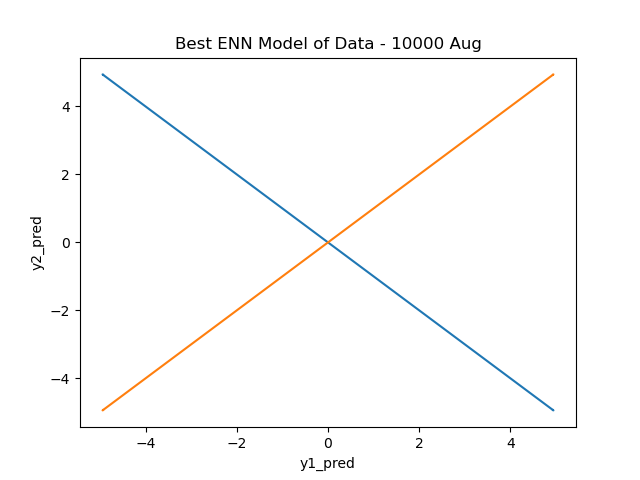
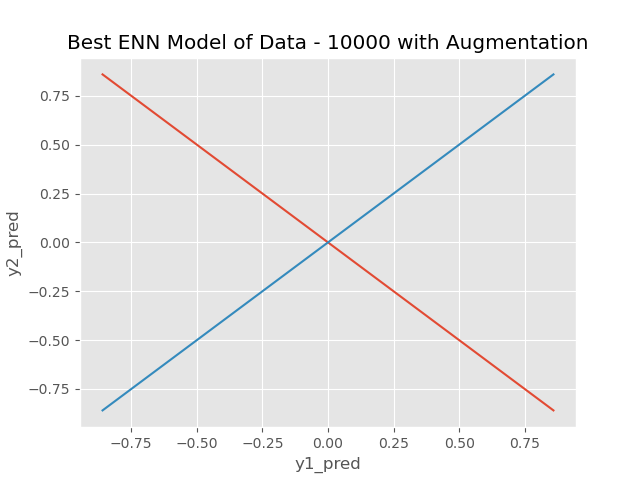
plots modified

diff --git a/LoadAndVisualizeENNModel.py b/LoadAndVisualizeENNModel.py
@@ -1,7 +1,7 @@
 """
 This script visualizes the results of Equi-variant networks only. Please note that the weights are of form ENNModel*.h5
 """
-
+import numpy as np
 import tensorflow as tf
 import matplotlib.pyplot as plt
 from EquivariantModel import EquiVariantModel
@@ -10,7 +10,7 @@ plt.style.use('ggplot')
 
 
 data_directory = "dlr_project_data/"
-model = EquiVariantModel(num_layers=3, activation='tanh')
+model = EquiVariantModel(num_layers=3, activation='sigmoid')
 model.build(input_shape=[1, 4])
 model.compile(loss='mse', optimizer=tf.keras.optimizers.Adam())
 model.load_weights("Models/ENNModel10000.h5")
@@ -19,24 +19,24 @@ print(model.summary())
 
 # uncomment the following part (Line 20 - 40) to view the validation loss and test loss of the model
 # Check if the loss values matches the best loss in the loss_*.csv file
-# validation_dict = get_data(data_directory + 'leakage_synth_dataset_validation_1000.csv')
-# x_validation, y_validation = validation_dict['x_data'], validation_dict['y_data']
-# val_dataset = tf.data.Dataset.from_tensor_slices((x_validation.astype(np.float32), y_validation.astype(np.float32)))
-# val_dataset = val_dataset.batch(32)
-# test_dict = get_data(data_directory + 'leakage_synth_dataset_test_1000.csv', augment=False)
-# x_test, y_test = test_dict['x_data'].astype(np.float32), test_dict['y_data'].astype(np.float32)
-# test_dataset = tf.data.Dataset.from_tensor_slices((x_test.astype(np.float32), y_test.astype(np.float32)))
-# test_dataset = test_dataset.batch(32)
-# batch_val_loss = []
-# for (x_batch, y_batch) in val_dataset:
-#     y_pred = model(x_batch, training=False)
-#     batch_val_loss.append(tf.reduce_mean((y_batch - y_pred) ** 2))
-# print("Validation loss:", np.mean(batch_val_loss))
-# batch_test_loss = []
-# for (x_batch, y_batch) in test_dataset:
-#     y_pred = model(x_batch, training=False)
-#     batch_test_loss.append(tf.reduce_mean((y_batch - y_pred) ** 2))
-# print("Test loss:", np.mean(batch_test_loss))
+validation_dict = get_data(data_directory + 'leakage_synth_dataset_validation_1000.csv')
+x_validation, y_validation = validation_dict['x_data'], validation_dict['y_data']
+val_dataset = tf.data.Dataset.from_tensor_slices((x_validation.astype(np.float32), y_validation.astype(np.float32)))
+val_dataset = val_dataset.batch(32)
+test_dict = get_data(data_directory + 'leakage_synth_dataset_test_1000.csv', augment=False)
+x_test, y_test = test_dict['x_data'].astype(np.float32), test_dict['y_data'].astype(np.float32)
+test_dataset = tf.data.Dataset.from_tensor_slices((x_test.astype(np.float32), y_test.astype(np.float32)))
+test_dataset = test_dataset.batch(32)
+batch_val_loss = []
+for (x_batch, y_batch) in val_dataset:
+    y_pred = model(x_batch, training=False)
+    batch_val_loss.append(tf.reduce_mean((y_batch - y_pred) ** 2))
+print("Validation loss:", np.mean(batch_val_loss))
+batch_test_loss = []
+for (x_batch, y_batch) in test_dataset:
+    y_pred = model(x_batch, training=False)
+    batch_test_loss.append(tf.reduce_mean((y_batch - y_pred) ** 2))
+print("Test loss:", np.mean(batch_test_loss))
 
 # Load the visualization set for plotting
 Test = TestData(spacing=50)
@@ -45,12 +45,18 @@ x_test1 = test_data['set1']
 x_test2 = test_data['set2']
 test_pred1 = model(x_test1, training=False)
 test_pred2 = model(x_test2, training=False)
-plt.plot(test_pred1[:, 0], test_pred1[:, 1])
-plt.plot(test_pred2[:, 0], test_pred2[:, 1])
+test_pred2 = test_pred2.numpy()
+test_pred1 = test_pred1.numpy()
+test_pred1_mask = np.array([pred for pred in test_pred1 if abs(pred[0]) < 1])
+test_pred2_mask = np.array([pred for pred in test_pred2 if abs(pred[0]) < 1])
+plt.plot(test_pred1_mask[:, 0], test_pred1_mask[:, 1])
+plt.plot(test_pred2_mask[:, 0], test_pred2_mask[:, 1])
+# plt.plot(test_pred1[:, 0], test_pred1[:, 1])
+# plt.plot(test_pred2[:, 0], test_pred2[:, 1])
 plt.title("Best ENN Model of Data - 10000")
 plt.xlabel("y1_pred")
 plt.ylabel("y2_pred")
-# plt.savefig("Plots/PlotDataENN10000Test.png")  # uncomment for saving the plot to a different name
+plt.savefig("Plots/PlotDataENN10000Test.png")  # uncomment for saving the plot to a different name
 plt.show()
 print('over')
 

diff --git a/train.py b/train.py
@@ -1,7 +1,7 @@
 import numpy as np
 import tensorflow as tf
 from DataLoader import get_data
-from Model import build_model, build_enn_model
+from Model import build_model, build_enn_model, build_int_model
 import keras_tuner as kt
 from tensorflow import keras
 
@@ -14,7 +14,7 @@ class MyTuner(kt.tuners.RandomSearch):
 
 
 data_directory = "dlr_project_data/"
-train_dict = get_data(data_directory + 'leakage_synth_dataset_train_10000.csv', augment=False)
+train_dict = get_data(data_directory + 'leakage_synth_dataset_train_100.csv', augment=False)
 x_train, y_train = train_dict['x_data'], train_dict['y_data']
 validation_dict = get_data(data_directory + 'leakage_synth_dataset_validation_1000.csv')
 x_validation, y_validation = validation_dict['x_data'], validation_dict['y_data']
@@ -25,8 +25,8 @@ val_dataset = tf.data.Dataset.from_tensor_slices((x_validation.astype(np.float32
 val_dataset = val_dataset.batch(batch_size)
 test_dict = get_data(data_directory + 'leakage_synth_dataset_test_1000.csv')
 x_test, y_test = test_dict['x_data'], test_dict['y_data']
-tuner = kt.RandomSearch(build_model, objective='val_loss', max_trials=100, executions_per_trial=1, directory="",
-                        project_name="DLR_ArchitectureSearch10000")
+tuner = kt.RandomSearch(build_int_model, objective='val_loss', max_trials=100, executions_per_trial=3, directory="",
+                        project_name="DLR_ArchitectureSearch100Int")
 print('searching done')
 tuner.search(train_dataset, epochs=100, validation_data=val_dataset,
              callbacks=[keras.callbacks.EarlyStopping(monitor='val_loss', mode='min', patience=5,
@@ -39,7 +39,7 @@ print(best_model.summary())
 best_hps = tuner.get_best_hyperparameters(num_trials=1)[0]
 print(best_hps)
 best_model.evaluate(x=x_test, y=y_test)
-best_model.save("BestModel_data10000.hdf5")
+best_model.save("BestModel_data100Int.hdf5")
 pred_data = x_test[2, :][np.newaxis, ...]
 y_pred = best_model.predict(pred_data)
 y_true = y_test[2, :]

diff --git a/Model.py b/Model.py
@@ -17,6 +17,21 @@ def build_model(hp):
     return model
 
 
+def build_int_model(hp):
+    model = keras.Sequential()
+    model.add(keras.layers.Dense(hp.Int('units', max_value=10, min_value=1, step=1),
+                                 hp.Choice("activation", ['relu', 'tanh', 'sigmoid']), input_shape=[4]))
+    for i in range(hp.Int("num_layers", min_value=1, max_value=4, step=1, default=1)):
+        model.add(keras.layers.Dense(hp.Int('units', max_value=10, min_value=1, step=1),
+                                     hp.Choice("activation", ['relu', 'tanh', 'sigmoid'])))
+        if hp.Boolean("dropout"):
+            model.add(keras.layers.Dropout(rate=0.25))
+    model.add(keras.layers.Dense(2, activation=None))
+    lr = hp.Float('lr', min_value=1e-4, max_value=1e-2, sampling='log', default=1e-3)
+    model.compile(loss='mse', optimizer=keras.optimizers.Adam(learning_rate=lr))
+    return model
+
+
 def build_enn_model(hp):
     model = EquiVariantModel(hp.Int("num_layers", min_value=1, max_value=10, default=1),
                              hp.Choice("activation", ['relu', 'tanh', 'sigmoid']))
